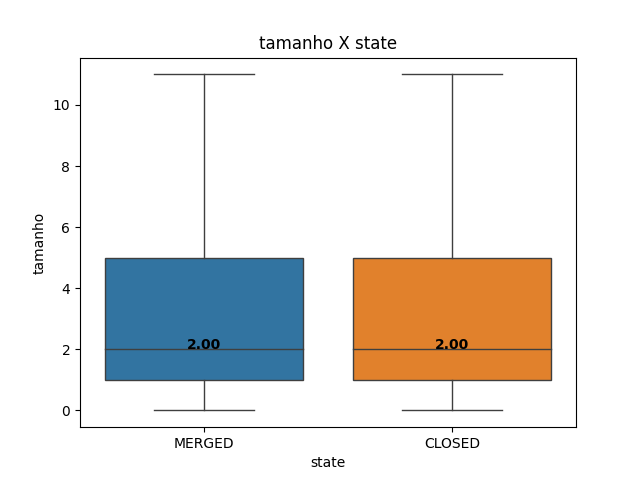
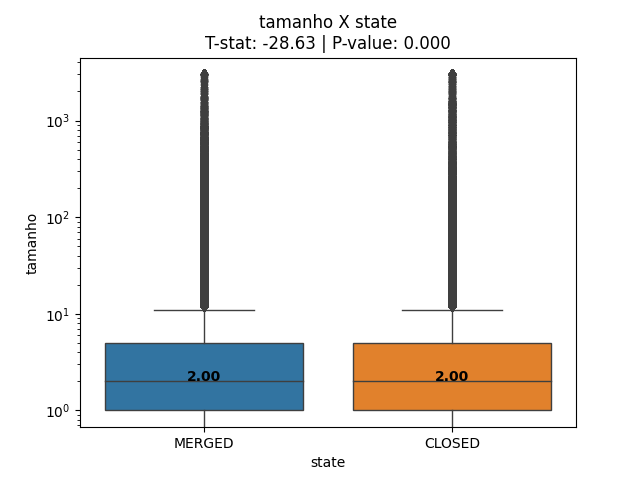
Correção dos gráficos

diff --git a/analiser.py b/analiser.py
@@ -1,6 +1,7 @@
 import pandas as pd
 import matplotlib.pyplot as plt
 import seaborn as sns
+from scipy.stats import ttest_ind
 
 df = pd.read_csv('dados-pr-filtrado.csv')
 
@@ -18,32 +19,42 @@ metrics = ['tamanho', 'interacoes', 'descricao', 'tempo']
 for m in metrics:
     title = f'{m} X reviews'
     sns.pairplot(data=df, y_vars='reviews', x_vars=m, kind="reg", height=10)
+    plt.xscale('log')
+    plt.yscale('log')
     plt.title(title)
     plt.savefig(f'figs/{title}.png')
     plt.show()
 
 for m in metrics:
     title = f'{m} X state'
-    medians = df.groupby(['state'])[m].median()
+    groups = df.groupby(['state'])
+    grupo1 = groups.get_group('MERGED')[m]
+    grupo2 = groups.get_group('CLOSED')[m]
+
+    t_stat, p_valor = ttest_ind(grupo1, grupo2)
+    medians = groups[m].median()
     sns.boxplot(
         data=df,
         y=m,
         x='state',
         width=0.8,
         linewidth=1.0,
-        showfliers=False,
     )
+    # plt.xscale('log')
+    plt.yscale('log')
     for i, val in enumerate(medians.values[::-1]):
         plt.text(i,
                  val,
                  f'{val:.2f}',
                  horizontalalignment='center',
                  fontweight='bold')
-    plt.title(title)
+    plt.title(title + f'\nT-stat: {t_stat:.2f} | P-value: {p_valor:.3f}')
     plt.savefig(f'figs/{title}.png')
     plt.show()
+    
 
-cols = ['tamanho', 'interacoes', 'descricao', 'tempo', 'reviews', 'status']
+
+cols = ['tamanho', 'interacoes', 'descricao', 'tempo', 'reviews']
 corr = df[cols].corr('spearman')
 
 corr = corr.drop('tamanho')
@@ -51,10 +62,10 @@ corr = corr.drop('interacoes')
 corr = corr.drop('descricao')
 corr = corr.drop('tempo')
 corr.pop('reviews')
-corr.pop('status')
 
 print(corr)
 sns.heatmap(data=corr, annot=True, square=True, robust=False)
-plt.title('Heatmap correlação')
+plt.title('Heatmap correlação reviews')
 plt.savefig('figs/heatmap.png')
 plt.show()
+
